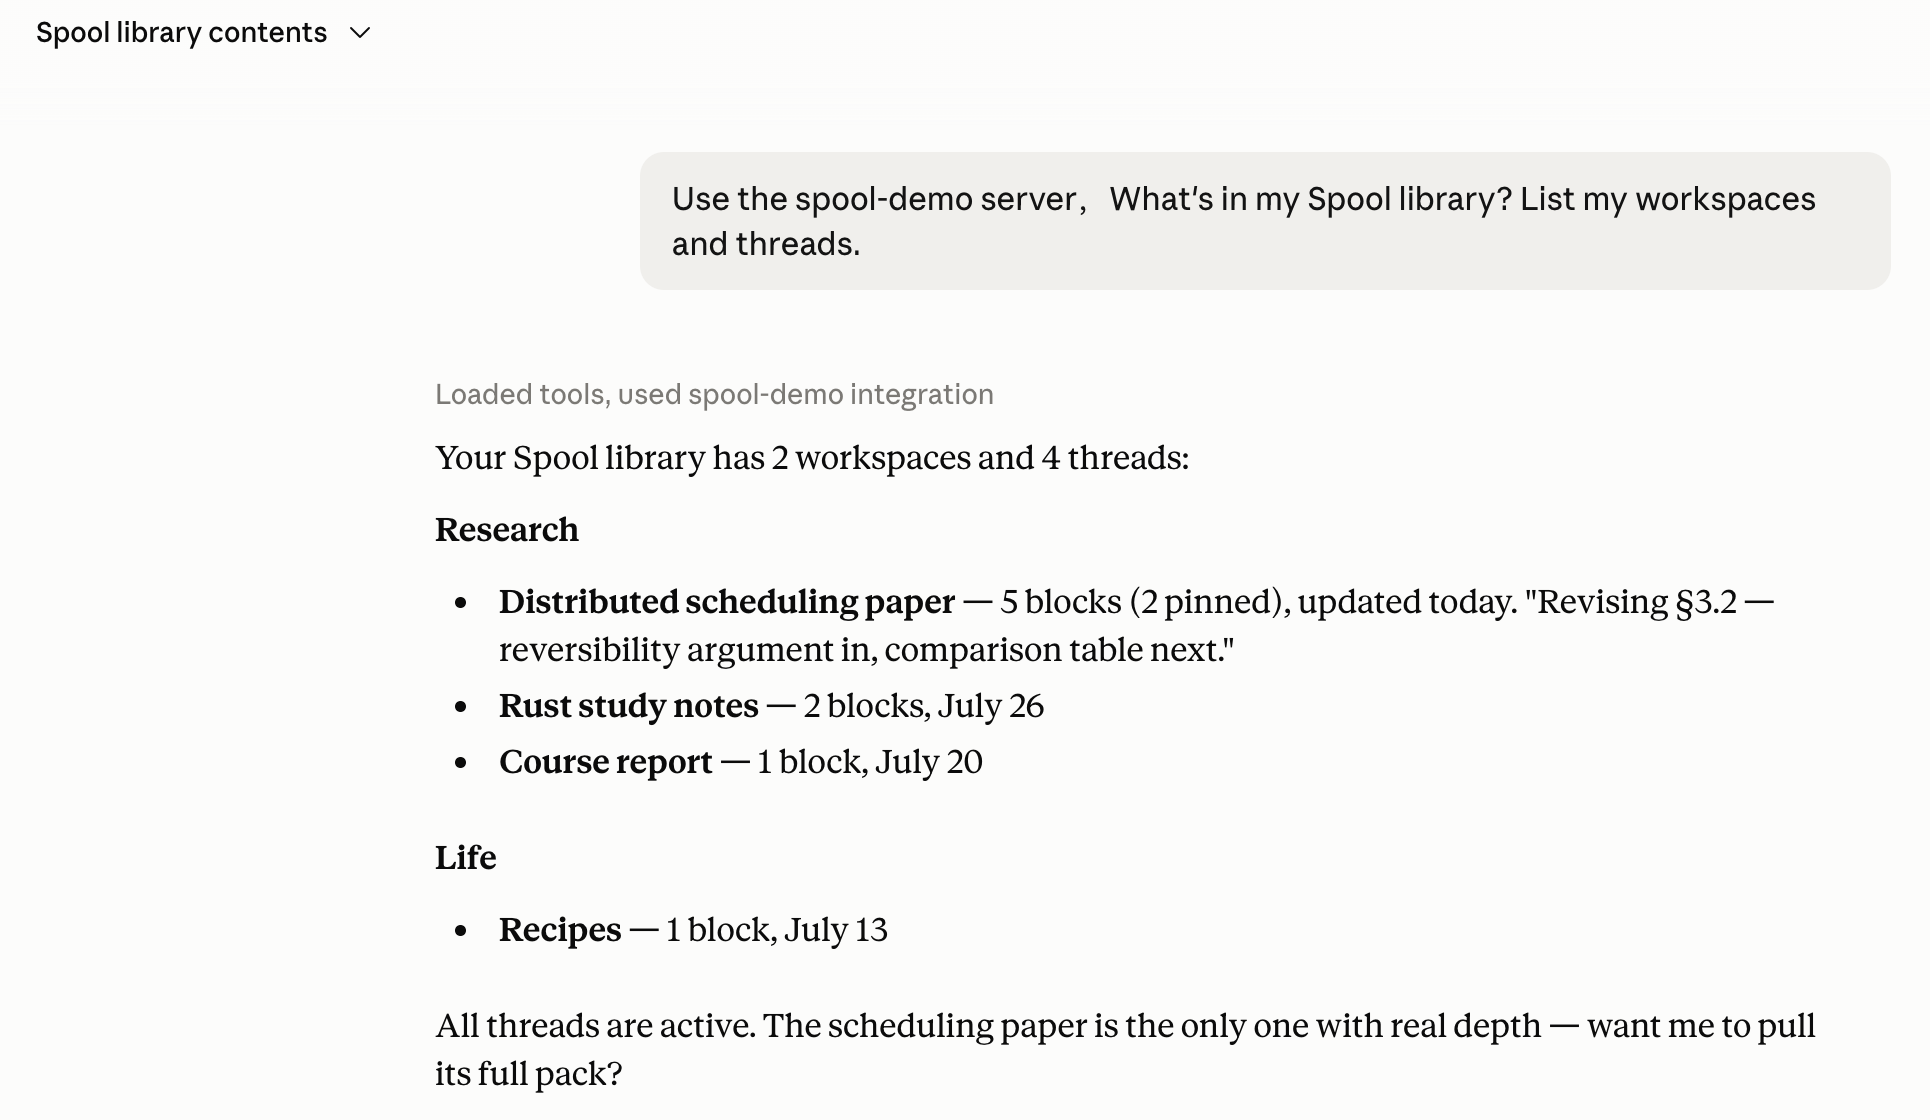
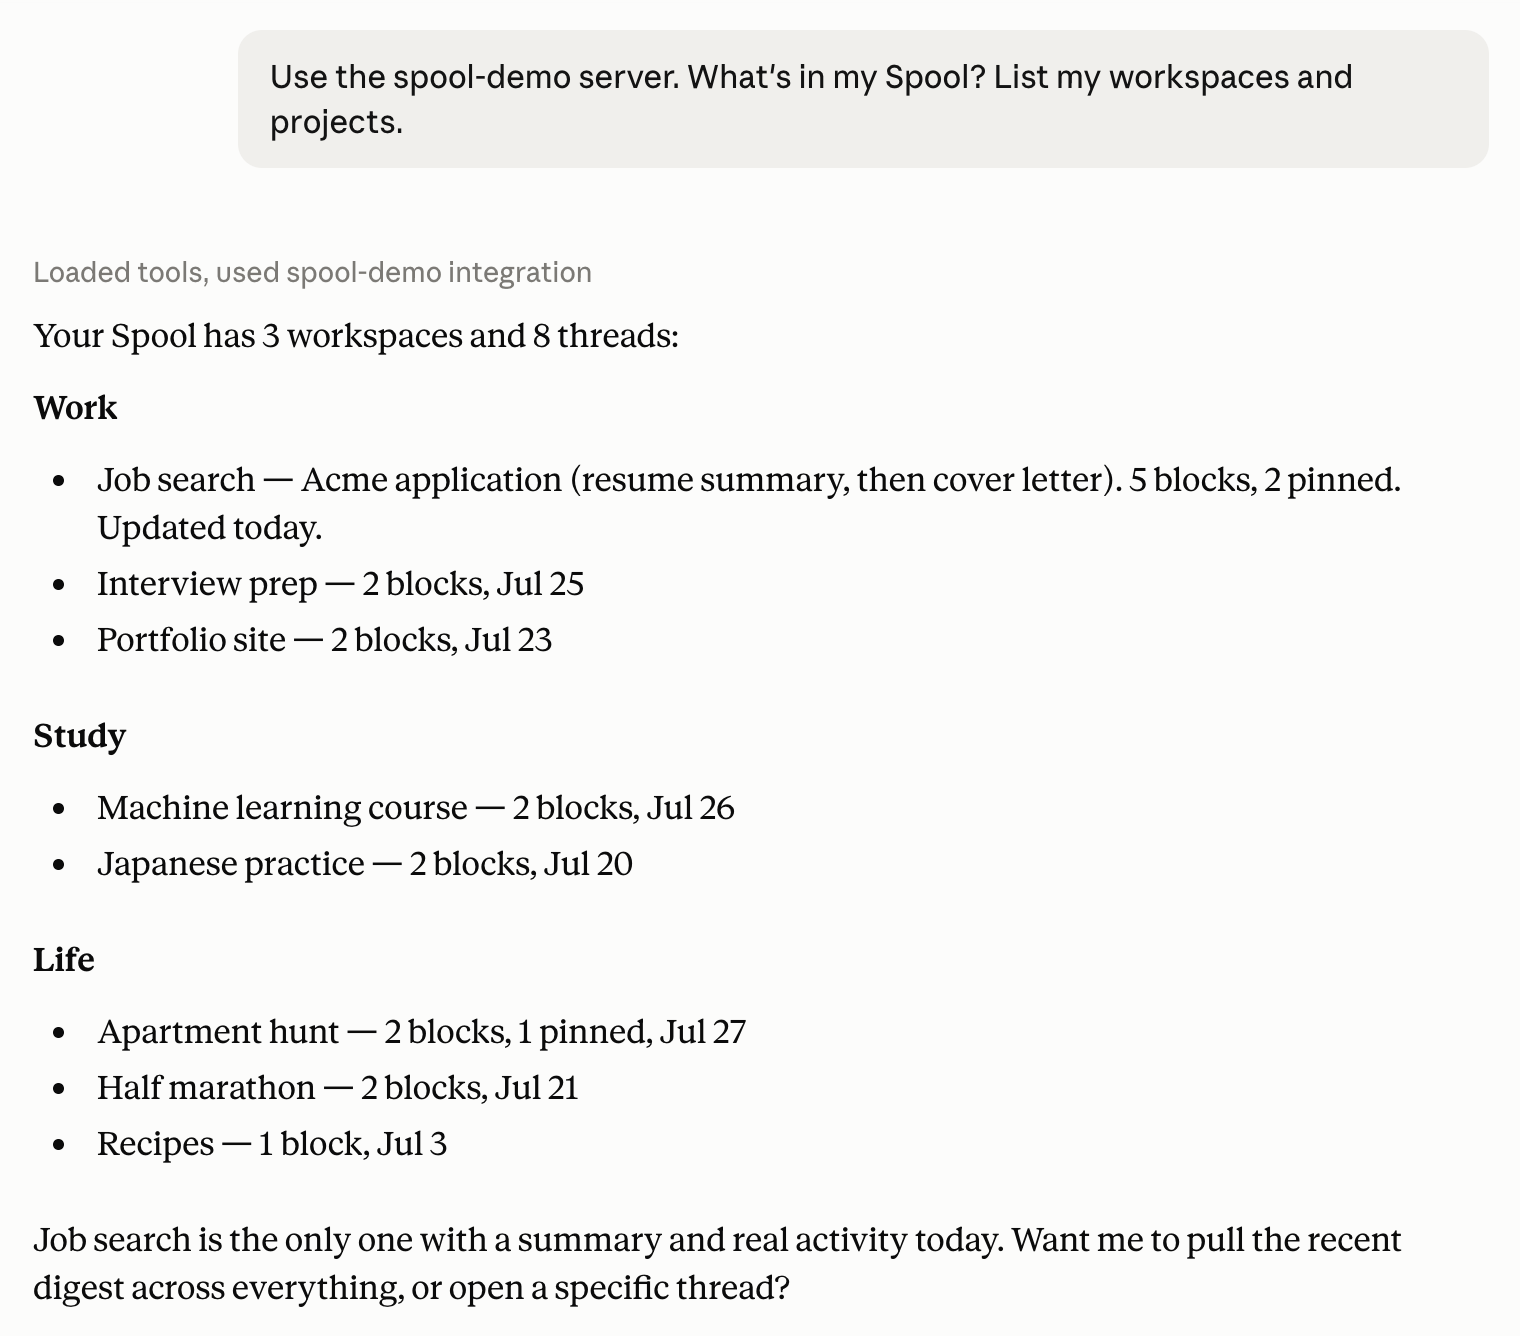
feat(site): second screenshot batch lands — job-search library, English pack and digest shots
New derivatives from the rebuilt demo library: four client-session crops,
the filed-note detail strip (user note above, signed block below, citation
line intact), the full window with all three workspaces expanded, and
English pack/digest shots replacing the Chinese ones — captions lose their
apology note. The raw capture-overlay shot stays out: it carries personal
browser chrome.

diff --git a/site/index.html b/site/index.html
@@ -196,12 +196,12 @@
         <p class="shot-caption" data-i18n="cap-main">One project, five notes: your goal, a job posting, an answer from an AI chat, your own decision, an email from the recruiter. Each one keeps its time and its source.</p>
       </div>
       <div class="shot-panel" data-panel="pack" hidden>
-        <img class="shot" src="assets/pack.png" alt="The pack window: a plain-text version of the project, grouped by who wrote each part, with a copy button" width="1100" loading="lazy">
-        <p class="shot-caption" data-i18n="cap-pack">Packing a project: pick how much to include, copy, paste. (Chinese screen shown — English is built in.)</p>
+        <img class="shot" src="assets/pack.png" alt="The pack window over the Job search project: a plain-text version of the project, grouped by who wrote each part, with a copy button" width="2200" loading="lazy">
+        <p class="shot-caption" data-i18n="cap-pack">Packing a project: pick how much to include, copy, paste. Five notes become 3,899 characters of ready-to-paste text.</p>
       </div>
       <div class="shot-panel" data-panel="digest" hidden>
-        <img class="shot" src="assets/digest.png" alt="A finished project in Spool, condensed to its conclusion, its most important notes, and its files and links" width="1100" loading="lazy">
-        <p class="shot-caption" data-i18n="cap-digest">A finished project, boiled down to what it concluded and the notes that mattered. (Chinese screen shown — English is built in.)</p>
+        <img class="shot" src="assets/digest.png" alt="A finished project in Spool, condensed to its conclusion and the notes that mattered most" width="2200" loading="lazy">
+        <p class="shot-caption" data-i18n="cap-digest">A finished project, boiled down to what it concluded and the notes that mattered.</p>
       </div>
     </div>
   </div>

diff --git a/site/story.html b/site/story.html
@@ -180,7 +180,7 @@ from the data layer through capture hardening, full-text search, thread digests,
 cross-thread references, and the MCP surface. The logo — a spool seen from above, its thread
 pulling free — was designed in-house, down to the tray icon's alpha-channel template rendering.</p>
 
-<img class="shot" src="assets/shots/app-thread-after.png" alt="The Spool main window in English: the workspace tree on the left, and a thread holding six blocks — a pinned goal, a reference the user captured, an answer from an AI chat, the user's own note, a conclusion filed by an AI client and badged Claude · MCP, and an email" width="2200" loading="lazy">
+<img class="shot" src="assets/shots/app-thread-after.png" alt="A Spool thread holding six blocks — a pinned goal, a captured job posting, an answer from an AI chat, the user's own note, a conclusion filed by an AI client and badged Claude · MCP, and an email" width="2420" loading="lazy">
 <p class="shot-caption">The current build: one thread holding five human-captured fragments and one
 conclusion filed by an AI client over MCP — each carrying its own time, source, and annotations.</p>
 

diff --git a/site/assets/i18n.js b/site/assets/i18n.js
@@ -65,8 +65,8 @@
     'tab-pack': '打包',
     'tab-digest': '收尾',
     'cap-main': '一个项目,五条笔记:你的目标、一条招聘信息、一段 AI 对话的回答、你自己的决定、招聘方的邮件。每一条都留着它的时间和来源。',
-    'cap-pack': '打包一个项目:选好范围,复制,粘贴。(图为中文界面——英文界面内置。)',
-    'cap-digest': '一个完结的项目,收拢成结论和真正重要的那几条笔记。(图为中文界面——英文界面内置。)',
+    'cap-pack': '打包一个项目:选好范围,复制,粘贴。五条笔记变成 3,899 个字符、拿去就能粘的文字。',
+    'cap-digest': '一个完结的项目,收拢成结论和真正重要的那几条笔记。',
 
     /* mcp */
     'mcp-k': 'MCP —— 粘贴之外',
